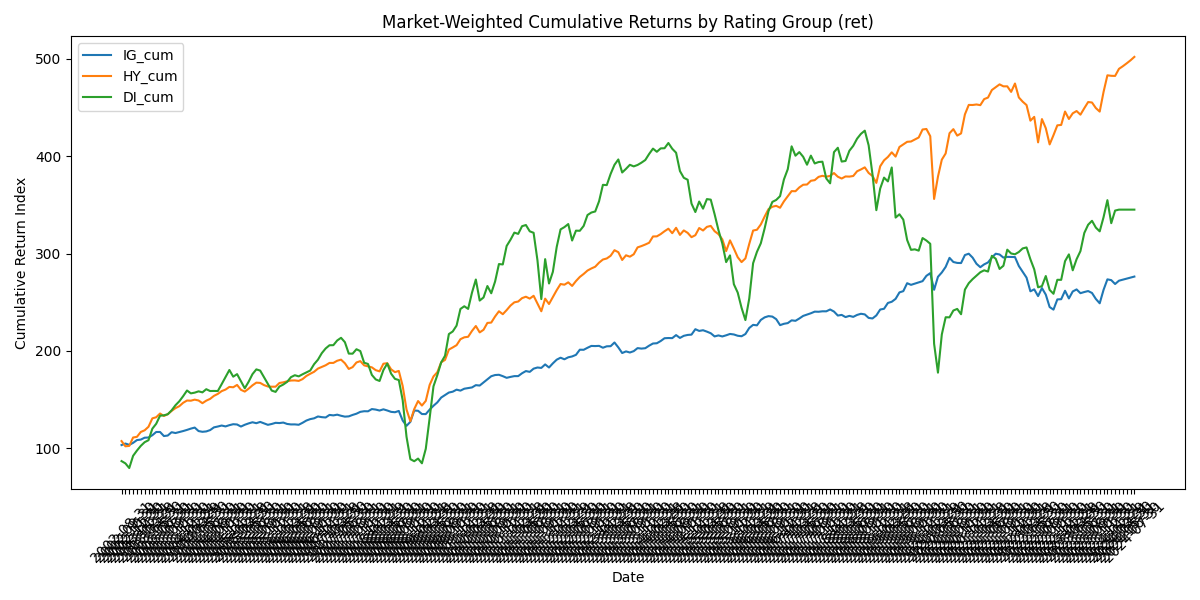
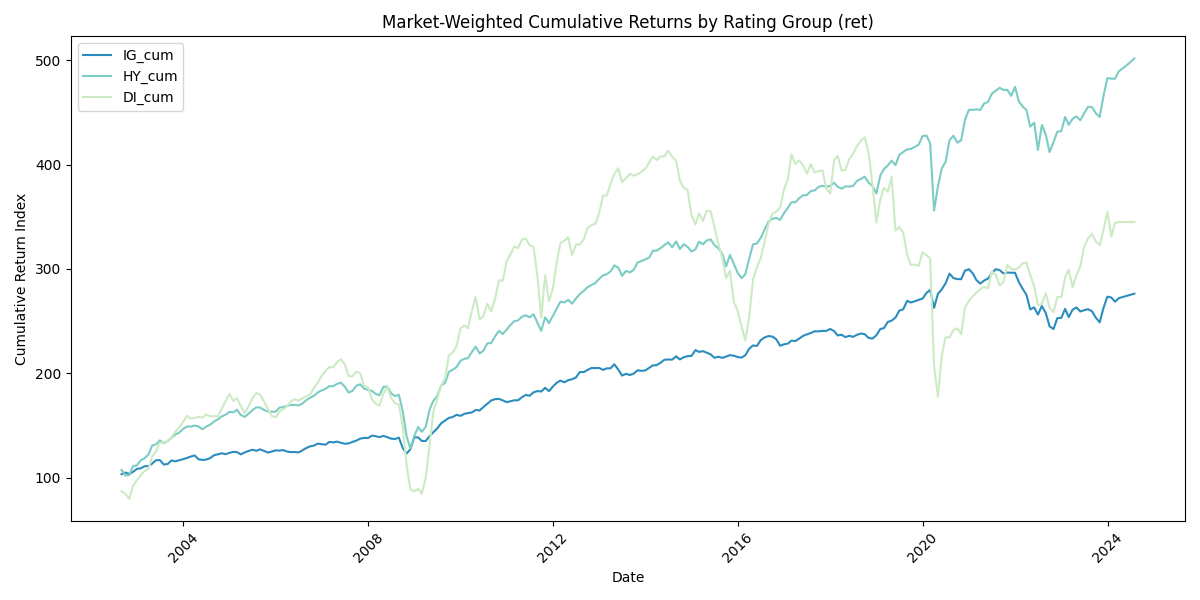
discriptive

diff --git a/py_code/descriptive_statistics.py b/py_code/descriptive_statistics.py
@@ -14,6 +14,8 @@
 import os
 import pandas as pd
 import matplotlib.pyplot as plt
+import matplotlib.dates as mdates
+import matplotlib.cm as cm
 import seaborn as sns
 from scipy import stats
 
@@ -40,111 +42,111 @@ print(bond_data["eom"])
 #       Descriptive statistics for entire dataset          
 # =============================================================================                                                          
 
-#Load descriptive statistics
-print("Descriptive statistics:")
-summary_stats = bond_data.describe()
-print(summary_stats)
+# #Load descriptive statistics
+# print("Descriptive statistics:")
+# summary_stats = bond_data.describe()
+# print(summary_stats)
 
-# Save the summary statistics to a CSV file
-summary_stats.to_csv("data/other/summary_statistics.csv")
+# # Save the summary statistics to a CSV file
+# summary_stats.to_csv("data/other/summary_statistics.csv")
 
-# Average bond size across all bonds
-grouped = bond_data.groupby('cusip')
-unique_sizes = grouped['size'].first()
-average_bond_size = unique_sizes.mean()
-print("Average bond size (initial offering value):", average_bond_size)
+# # Average bond size across all bonds
+# grouped = bond_data.groupby('cusip')
+# unique_sizes = grouped['size'].first()
+# average_bond_size = unique_sizes.mean()
+# print("Average bond size (initial offering value):", average_bond_size)
 
-# Average values of variables at two data points (midway and end)
-bond_data['eom'] = pd.to_datetime(bond_data['eom'])
-earliest_date = pd.to_datetime('2002-07-31')
-last_date = bond_data['eom'].max()
-midway_date = earliest_date + (last_date - earliest_date) / 2
+# # Average values of variables at two data points (midway and end)
+# bond_data['eom'] = pd.to_datetime(bond_data['eom'])
+# earliest_date = pd.to_datetime('2002-07-31')
+# last_date = bond_data['eom'].max()
+# midway_date = earliest_date + (last_date - earliest_date) / 2
 
-midway = pd.to_datetime('2012-03-31')
-enddate = pd.to_datetime('2021-11-30')
+# midway = pd.to_datetime('2012-03-31')
+# enddate = pd.to_datetime('2021-11-30')
 
-# Filter rows for each snapshot
-snapshot_2013 = bond_data[bond_data['eom'] == midway]
-snapshot_2023 = bond_data[bond_data['eom'] == enddate]
+# # Filter rows for each snapshot
+# snapshot_2013 = bond_data[bond_data['eom'] == midway]
+# snapshot_2023 = bond_data[bond_data['eom'] == enddate]
 
-# List the columns you want to average
-cols_to_average = ['duration', 'yield', 'market_value', 'ret_exc', 
-                   'ret_texc', 'rating_num']
+# # List the columns you want to average
+# cols_to_average = ['duration', 'yield', 'market_value', 'ret_exc', 
+#                    'ret_texc', 'rating_num']
 
-# Compute the averages at each snapshot
-snapshot_2002_avg = snapshot_2013[cols_to_average].mean(numeric_only=True)
-snapshot_2023_avg = snapshot_2023[cols_to_average].mean(numeric_only=True)
+# # Compute the averages at each snapshot
+# snapshot_2002_avg = snapshot_2013[cols_to_average].mean(numeric_only=True)
+# snapshot_2023_avg = snapshot_2023[cols_to_average].mean(numeric_only=True)
 
-print("Averages at 2002-07-31:")
-print(snapshot_2002_avg)
-print("\nAverages at 2023-12-31:")
-print(snapshot_2023_avg)
+# print("Averages at 2002-07-31:")
+# print(snapshot_2002_avg)
+# print("\nAverages at 2023-12-31:")
+# print(snapshot_2023_avg)
 
-# Compute the 1st (Q1) and 3rd (Q3) quartiles and the IQR
-Q1 = bond_data['ret_exc'].quantile(0.25)
-Q3 = bond_data['ret_exc'].quantile(0.75)
-IQR = Q3 - Q1
+# # Compute the 1st (Q1) and 3rd (Q3) quartiles and the IQR
+# Q1 = bond_data['ret_exc'].quantile(0.25)
+# Q3 = bond_data['ret_exc'].quantile(0.75)
+# IQR = Q3 - Q1
 
-# Define lower and upper bounds for outliers
-lower_bound = Q1 - 1.5 * IQR
-upper_bound = Q3 + 1.5 * IQR
+# # Define lower and upper bounds for outliers
+# lower_bound = Q1 - 1.5 * IQR
+# upper_bound = Q3 + 1.5 * IQR
 
-# Identify outliers
-outliers_iqr = bond_data[(bond_data['ret_exc'] < lower_bound) | (bond_data['ret_exc'] > upper_bound)]
-print("Number of outliers using IQR method:", len(outliers_iqr))
-print("Outliers (IQR method):")
-print(outliers_iqr)
-print(outliers_iqr.describe())
-outliers_iqr.to_csv("data/other/outliers_iqr.csv")
+# # Identify outliers
+# outliers_iqr = bond_data[(bond_data['ret_exc'] < lower_bound) | (bond_data['ret_exc'] > upper_bound)]
+# print("Number of outliers using IQR method:", len(outliers_iqr))
+# print("Outliers (IQR method):")
+# print(outliers_iqr)
+# print(outliers_iqr.describe())
+# outliers_iqr.to_csv("data/other/outliers_iqr.csv")
 
-# ---------------------------------------------------
-# Time Series: Compute the monthly average values
-# ---------------------------------------------------
-# Group by the end-of-month date and calculate the mean for each group
-time_series_avg = bond_data.groupby('eom')[cols_to_average].mean(numeric_only=True)
+# # ---------------------------------------------------
+# # Time Series: Compute the monthly average values
+# # ---------------------------------------------------
+# # Group by the end-of-month date and calculate the mean for each group
+# time_series_avg = bond_data.groupby('eom')[cols_to_average].mean(numeric_only=True)
 
-# Reset the index if you want 'eom' as a column
-time_series_avg = time_series_avg.reset_index()
+# # Reset the index if you want 'eom' as a column
+# time_series_avg = time_series_avg.reset_index()
 
-# Optionally, print or plot the time series
-print("\nTime series of average values (first 5 rows):")
-print(time_series_avg.head())
+# # Optionally, print or plot the time series
+# print("\nTime series of average values (first 5 rows):")
+# print(time_series_avg.head())
 
-# If you want to plot one variable (e.g., average duration) over time:
-# Assuming time_series_avg is your DataFrame with an 'eom' column and the variables in cols_to_average
-variables = ['duration', 'yield', 'market_value', 'ret_exc', 'ret_texc', 'rating_num']
+# # If you want to plot one variable (e.g., average duration) over time:
+# # Assuming time_series_avg is your DataFrame with an 'eom' column and the variables in cols_to_average
+# variables = ['duration', 'yield', 'market_value', 'ret_exc', 'ret_texc', 'rating_num']
 
-# Create a 2x3 grid of subplots
-fig, axes = plt.subplots(nrows=2, ncols=3, figsize=(15, 10), sharex=True)
-axes = axes.flatten()  # flatten to easily iterate over axes
+# # Create a 2x3 grid of subplots
+# fig, axes = plt.subplots(nrows=2, ncols=3, figsize=(15, 10), sharex=True)
+# axes = axes.flatten()  # flatten to easily iterate over axes
 
-for i, var in enumerate(variables):
-    axes[i].plot(time_series_avg['eom'], time_series_avg[var], linestyle='-', color='blue')  
-    axes[i].set_title(f'Average {var.capitalize()} Over Time')
-    axes[i].set_xlabel('Date')
-    axes[i].set_ylabel(var.capitalize())
-    axes[i].tick_params(axis='x', rotation=45)
+# for i, var in enumerate(variables):
+#     axes[i].plot(time_series_avg['eom'], time_series_avg[var], linestyle='-', color='blue')  
+#     axes[i].set_title(f'Average {var.capitalize()} Over Time')
+#     axes[i].set_xlabel('Date')
+#     axes[i].set_ylabel(var.capitalize())
+#     axes[i].tick_params(axis='x', rotation=45)
 
-plt.tight_layout()
-plt.savefig(os.path.join(figures_folder, "time_series_avg.png"))
-plt.close()
+# plt.tight_layout()
+# plt.savefig(os.path.join(figures_folder, "time_series_avg.png"))
+# plt.close()
 
 # =============================================================================     
 #       Descriptive statistics for different rating groups          
 # =============================================================================                                                          
 
-# Divide into groups based on the rating type
-IG = bond_data[bond_data['rating_num'] < 10.5]
-HY = bond_data[bond_data['rating_num'] >= 10.5]
-DI = bond_data[bond_data['rating_num'] >= 17.5]
+# # Divide into groups based on the rating type
+# IG = bond_data[bond_data['rating_num'] < 10.5]
+# HY = bond_data[bond_data['rating_num'] >= 10.5]
+# DI = bond_data[bond_data['rating_num'] >= 17.5]
 
-# descriptive statistics for each group
-IG_stats = IG.describe()
-HY_stats = HY.describe()
-DI_stats = DI.describe()
-IG_stats.to_csv("data/other/IG_summary_statistics.csv")
-HY_stats.to_csv("data/other/HY_summary_statistics.csv")
-DI_stats.to_csv("data/other/DI_summary_statistics.csv")
+# # descriptive statistics for each group
+# IG_stats = IG.describe()
+# HY_stats = HY.describe()
+# DI_stats = DI.describe()
+# IG_stats.to_csv("data/other/IG_summary_statistics.csv")
+# HY_stats.to_csv("data/other/HY_summary_statistics.csv")
+# DI_stats.to_csv("data/other/DI_summary_statistics.csv")
 
 # =================================================================================================
 #       Market-weighted cumulative return for each rating group using the small dataset and ret.exc        
@@ -305,10 +307,15 @@ output_path = os.path.join(data_folder, "preprocessed", "market_returns_combined
 combined_df.to_csv(output_path, index=False) 
 print("Combined monthly and cumulative returns saved to:", output_path)
 
+cum_df['date'] = pd.to_datetime(cum_df['date'])
+returns_df.index = pd.to_datetime(returns_df.index)
+
 # 5. Plot Cumulative Returns
+cmap = cm.get_cmap('GnBu', 5).reversed()
+
 plt.figure(figsize=(12, 6))
-for col in ['IG_cum', 'HY_cum', 'DI_cum']:
-    plt.plot(cum_df['date'], cum_df[col], label=col)
+for i, col in enumerate(['IG_cum', 'HY_cum', 'DI_cum']):
+    plt.plot(cum_df['date'], cum_df[col], label=col, color=cmap(i+1))
 plt.title("Market-Weighted Cumulative Returns by Rating Group (ret)")
 plt.xlabel("Date")
 plt.ylabel("Cumulative Return Index")
@@ -319,9 +326,9 @@ plt.savefig(os.path.join(figures_folder, "cumulative_returns_large.png"))
 plt.close()
 
 # 8. Plot Monthly (Simple) Returns
-plt.figure(figsize=(12, 6))
-for col in ['0.IG', '1.HY', '2.DI']:
-    plt.plot(returns_df.index, returns_df[col], label=col, linestyle='-')
+plt.figure(figsize=(12, 10))
+for i, col in enumerate(['0.IG', '1.HY', '2.DI']):
+    plt.plot(returns_df.index, returns_df[col], label=col, linestyle='-', color=cmap(i+1))
 plt.title("Monthly Market-Weighted Simple Returns by Rating Group (ret)")
 plt.xlabel("Date")
 plt.ylabel("Monthly Return")
